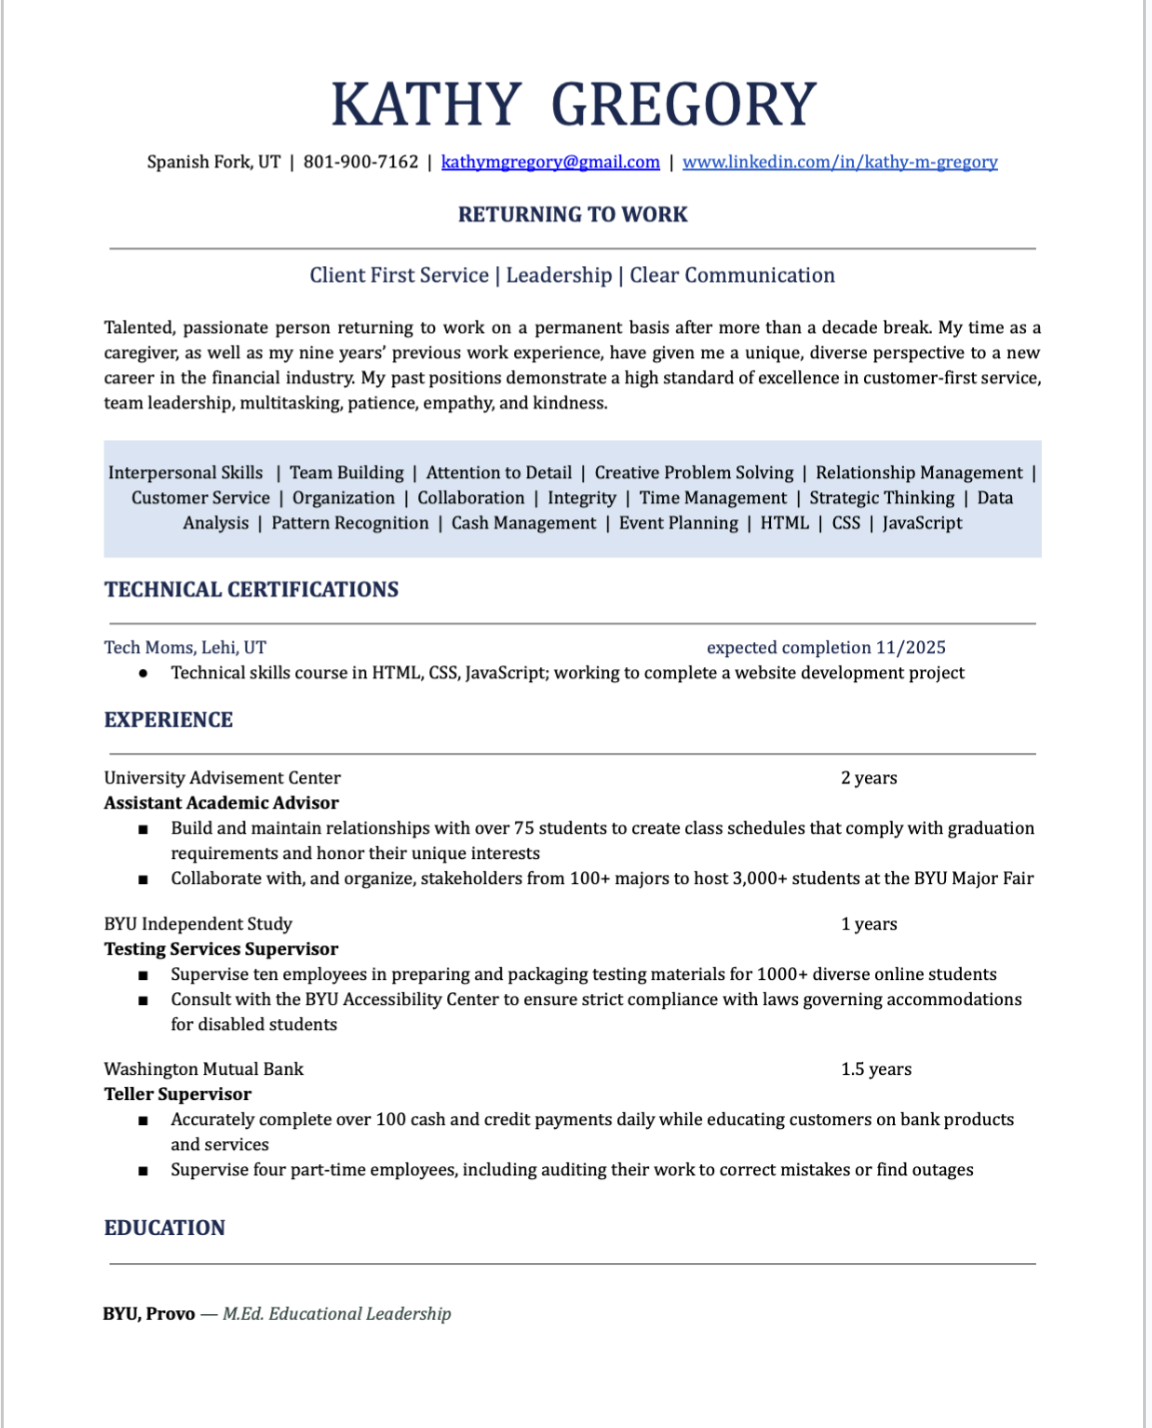
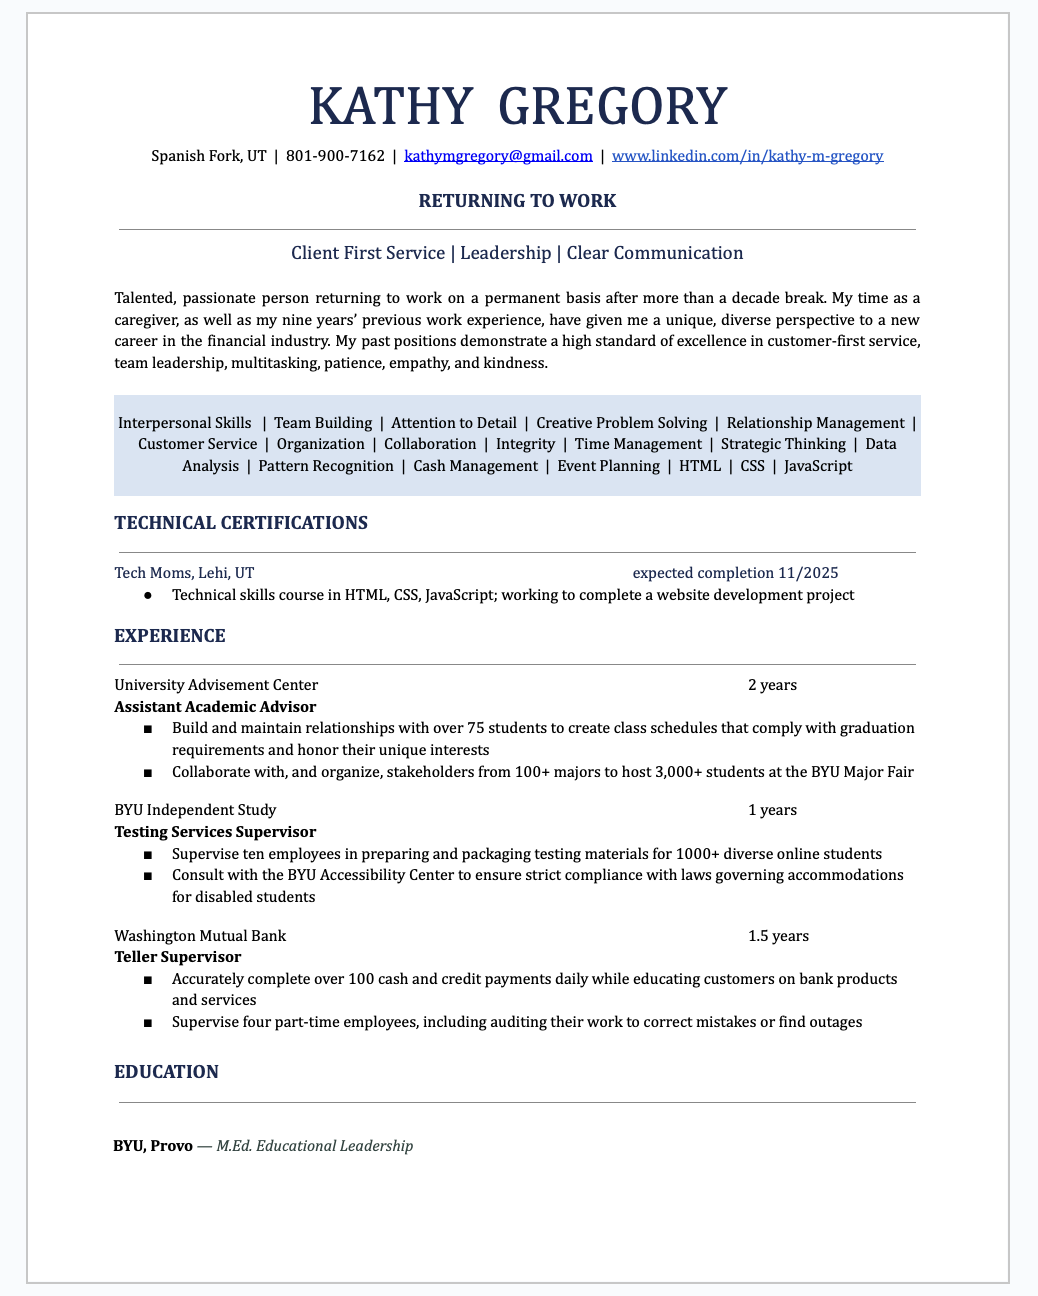
newest updates - almost done

diff --git a/work-experience.html b/work-experience.html
@@ -18,20 +18,78 @@
 <h2>Work Experience</h2>
 </header>
 <main>
-    <div>
-
+  
+  
+<div>
     <p>
-       <img src="resume.png" alt="picture of Kathy's resume" height="500"> 
+       <img class="img2" src="resume.png" alt="picture of Kathy's resume" height="600"> 
        
     </p>
-    </div>
-    <div class="container">
-<button>
-        Click
-    </button>
-
-    </div>
-
+    
+    <canvas width="550" height="550"></canvas>
+ 
+  </div>
+<script>
+        var canvas = document.querySelector("canvas");
+        var drawingSurface = canvas.getContext("2d");
+        var spriteObject = 
+        {
+           
+            x : 0,
+            y : 0, 
+            width : 63, 
+            height : 125,
+        };
+        var moo = Object.create(spriteObject);
+        moo.x = 100;
+        moo.y = 100;
+        var image = new Image();
+        image.addEventListener("load", loadHandler, false);
+        image.src = "lunamoth.jpg";
+        var Xspeed = 2;
+        var Yspeed = 2;
+        function loadHandler()
+        {
+            update();
+        }
+        function update()
+        {
+            window.requestAnimationFrame(update, canvas);
+            moo.x += Xspeed;
+            moo.y += Yspeed;
+            if(moo.width + moo.x > 490)
+            {
+                Xspeed = -2;
+            }
+            else if(moo.x < 1)
+            {
+                Xspeed = 2;
+            }
+            else if(moo.height + moo.y > 615)
+            {
+                Yspeed = -2;
+            }
+            else if(moo.y < 1)
+            {
+                Yspeed = 2;
+            }
+            render();
+            
+        }
+        function render()
+        {
+            drawingSurface.clearRect(0,0, canvas.width, canvas.height);
+            drawingSurface.drawImage
+            (
+            image, 
+            Math.floor(moo.x), Math.floor(moo.y),
+            moo.height, moo.width
+            );
+            drawingSurface.font = "bold 20px Arial";
+            drawingSurface.fillText(text, 10, 30, 200);
+            console.log(drawingSurface.measureText(text).width);
+        }
+    </script>
     
 </main>
   

diff --git a/styles.css b/styles.css
@@ -40,6 +40,11 @@ img {
     margin: 10px 10px 10px 15px; 
 }
 
+.img2 {
+    border-radius: 0%;
+    margin: 0px;
+}
+
 .img-header {
     border-radius: 10%;
     margin: 0px;
@@ -60,7 +65,9 @@ main {
 
 body {
     margin: 0px;
+    min-height: 100dvh;
 }
+
 
 .small-image {
     height: 15px;
@@ -69,7 +76,7 @@ body {
 
 p {
     padding: 10px 5px 10px 5px;
-    display: center;
+    display: flex;
 }
 
 button {
@@ -96,3 +103,9 @@ div {
    justify-content: space-evenly;
     padding: 10px;
 }
+
+canvas {
+    background-color: #f1ccc5;
+    
+}
+

diff --git a/index.html b/index.html
@@ -42,7 +42,7 @@ onclick="document.getElementById('caterpillar').src='j-shape.png'">
 
         
    </main>
-<!-- change the pictutre of Bia -->
+
 <footer class="centered">
     Connect with me on <a href="https://www.linkedin.com/in/kathy-gregory-448b89379/" target="_blank" rel="noopener noferrer">Linkedin</a>
     <img class="small-image" src="linkedin-logo.png">

diff --git a/About.html b/About.html
@@ -33,7 +33,6 @@
 <img src="family.jpg" alt="Kathy and her three kids on Mother's Day 2015" width="350">
 
 
-<!-- <img src="plunj.jpg" alt="Kathy with two friends inside a cold plunge pool" width="250"> -->
 
 </div>
 
